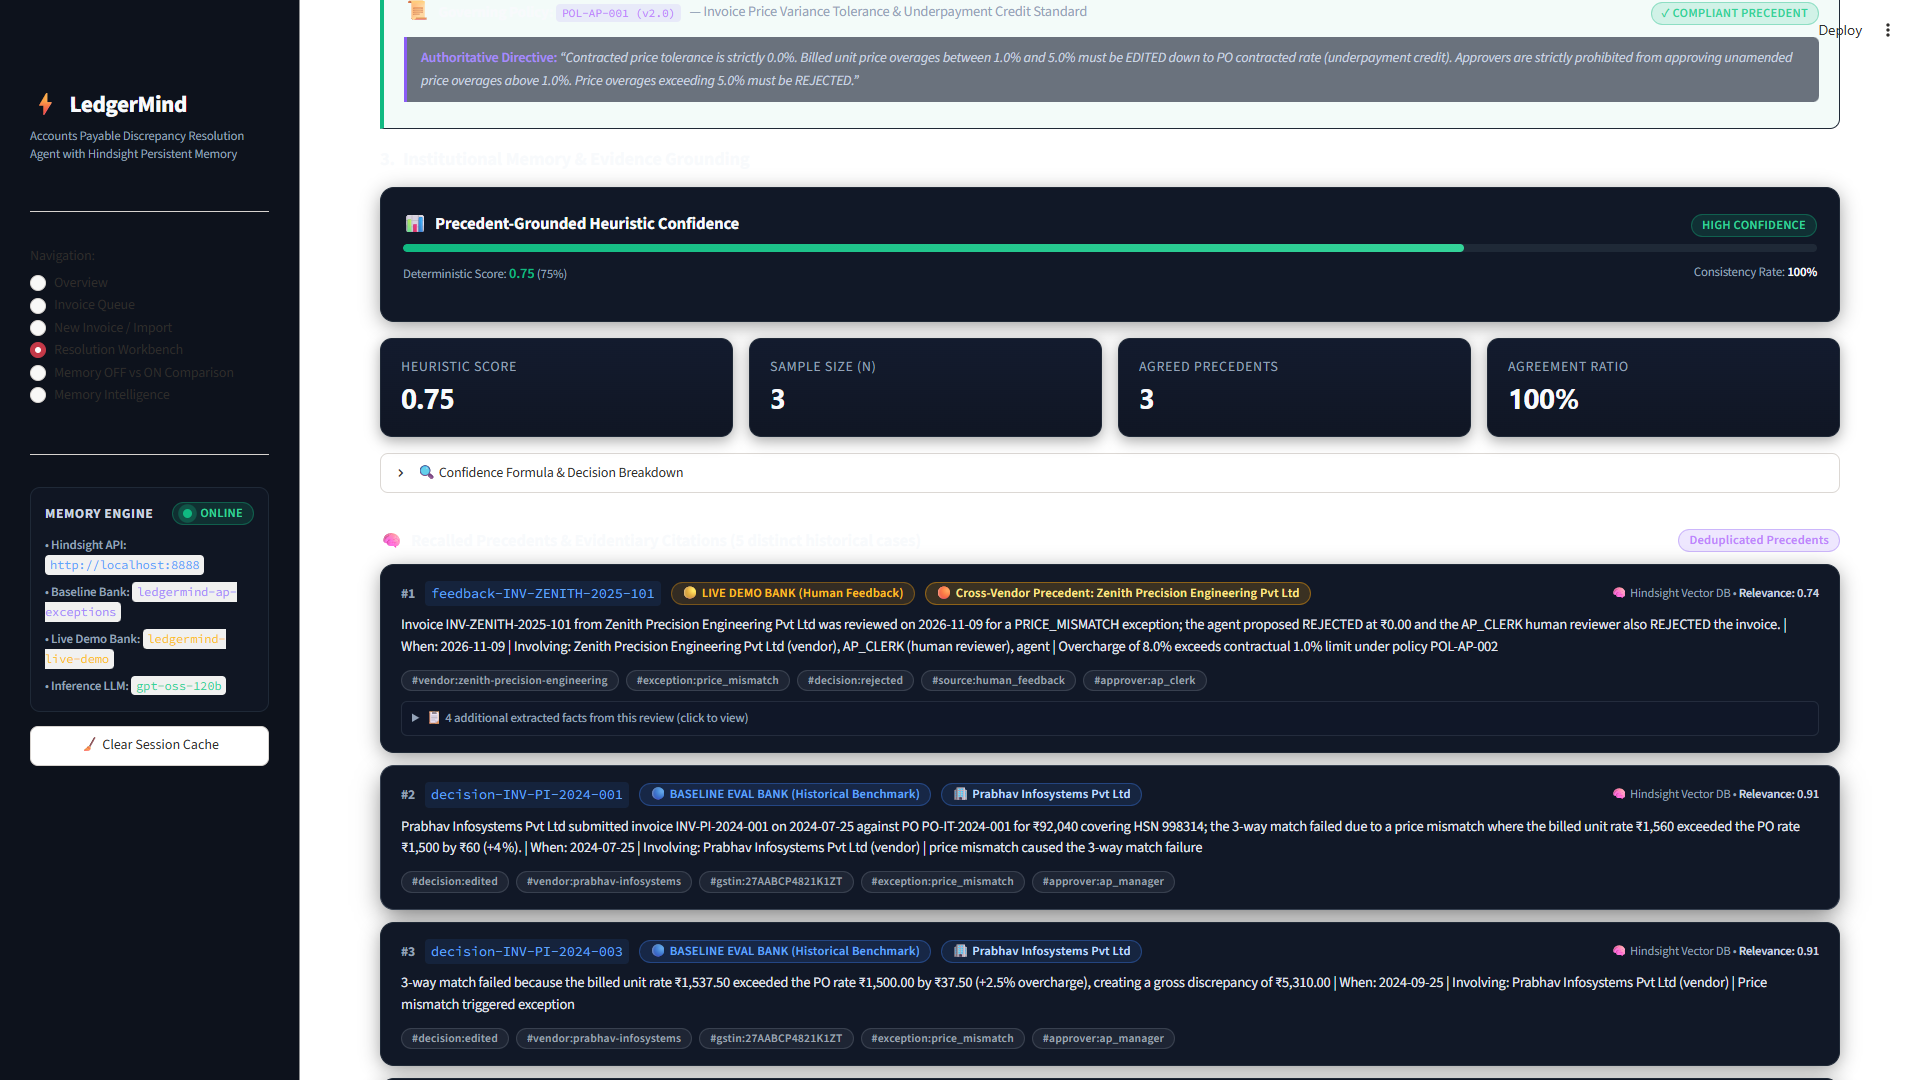
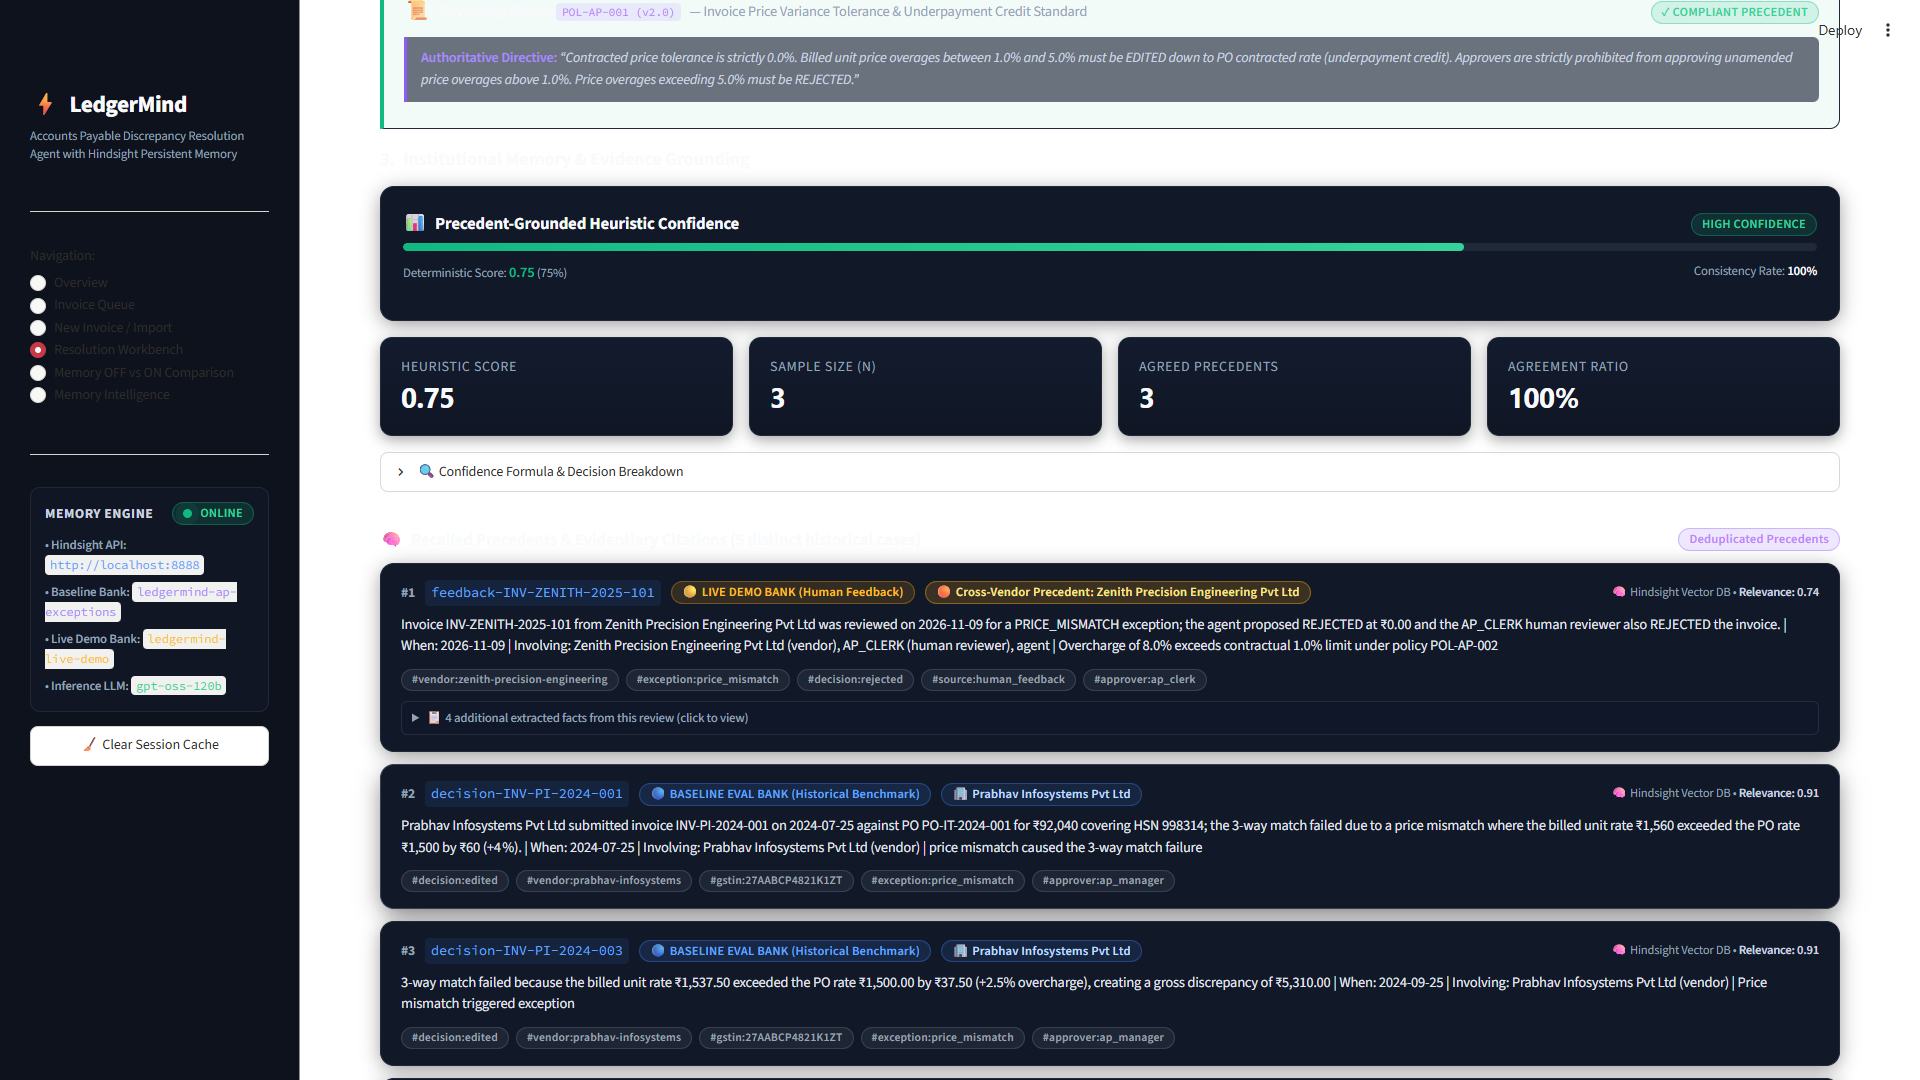
fix(memory): eliminate false timeout fallback and restore live Hindsight vector db provenance

diff --git a/memory/client.py b/memory/client.py
@@ -15,6 +15,7 @@ deterministic interface with normalized response models.
 from datetime import datetime, timezone
 import os
 from pathlib import Path
+import time
 from typing import Any, Dict, List, Optional
 
 from hindsight_client import Hindsight
@@ -62,30 +63,47 @@ class MemoryClient:
         self.offline_store = offline_store or OfflineStore()
         self.reflect_cache = reflect_cache or ReflectCache()
         self.configured_mode = self.mode
+
+        # Bounded recall timeout (default: 30.0s to accommodate 4-7s server vector search time)
+        timeout_env = os.getenv("HINDSIGHT_RECALL_TIMEOUT", "30.0")
+        try:
+            self.recall_timeout = float(timeout_env)
+        except ValueError:
+            self.recall_timeout = 30.0
+
         self.last_recall_source: str = "offline" if self.mode == MemoryMode.OFFLINE else "hindsight"
         self.last_fallback_reason: Optional[str] = None
+        self.last_recall_elapsed: Optional[float] = None
 
         # Initialize Hindsight SDK if not offline
         self._sdk_client: Optional[Hindsight] = None
         if self.mode in (MemoryMode.LOCAL, MemoryMode.CLOUD):
             try:
-                self._sdk_client = Hindsight(base_url=self.base_url, api_key=self.api_key)
+                self._sdk_client = Hindsight(
+                    base_url=self.base_url,
+                    api_key=self.api_key,
+                    timeout=self.recall_timeout,
+                )
             except Exception as e:
                 print(f"⚠  Warning: Failed to initialize Hindsight SDK ({e}); falling back to offline.")
                 self.mode = MemoryMode.OFFLINE
 
     def is_healthy(self) -> bool:
-        """Fast connectivity check to prevent long connect timeouts when service is offline."""
+        """Fast connectivity check for diagnostics and sidebar status polling."""
         if getattr(self, "configured_mode", self.mode) == MemoryMode.OFFLINE or not self.base_url or self.base_url.startswith("offline://"):
             return False
         try:
             import requests
-            resp = requests.get(f"{self.base_url.rstrip('/')}/health", timeout=3.0)
+            resp = requests.get(f"{self.base_url.rstrip('/')}/health", timeout=5.0)
             is_ok = resp.status_code == 200
             if is_ok:
                 if self._sdk_client is None and getattr(self, "configured_mode", self.mode) in (MemoryMode.LOCAL, MemoryMode.CLOUD):
                     try:
-                        self._sdk_client = Hindsight(base_url=self.base_url, api_key=self.api_key)
+                        self._sdk_client = Hindsight(
+                            base_url=self.base_url,
+                            api_key=self.api_key,
+                            timeout=self.recall_timeout,
+                        )
                     except Exception:
                         pass
                 self.mode = self.configured_mode
@@ -119,7 +137,7 @@ class MemoryClient:
             context=context,
         )
 
-        if self.mode == MemoryMode.OFFLINE or not self._sdk_client or not self.is_healthy():
+        if self.mode == MemoryMode.OFFLINE or not self._sdk_client:
             return document_id or "offline-retained"
 
         # Check and record budget
@@ -159,16 +177,19 @@ class MemoryClient:
         Recall relevant historical memories.
         In offline mode, falls back to lexical/tag filtering.
         """
-        if self.mode == MemoryMode.OFFLINE or not self._sdk_client or not self.is_healthy():
+        t_start = time.perf_counter()
+        if self.mode == MemoryMode.OFFLINE or not self._sdk_client:
             self.last_recall_source = "offline"
-            self.last_fallback_reason = "Offline mode or Hindsight service unhealthy"
+            self.last_fallback_reason = "Offline mode configured" if self.mode == MemoryMode.OFFLINE else "SDK client unavailable"
+            self.last_recall_elapsed = time.perf_counter() - t_start
             offline_results = self.offline_store.recall(bank_id=bank_id, query=query, tags=tags, limit=limit)
             for m in offline_results:
                 m.bank_id = bank_id
+                m.is_offline_fallback = True
             return offline_results
 
         try:
-            # Query Hindsight SDK
+            # Query Hindsight SDK with bounded timeout
             kwargs: Dict[str, Any] = {
                 "bank_id": bank_id,
                 "query": query,
@@ -179,23 +200,30 @@ class MemoryClient:
                 kwargs["min_scores"] = {"final": min_score}
 
             sdk_resp: RecallResponse = self._sdk_client.recall(**kwargs)
+            elapsed = time.perf_counter() - t_start
+            self.last_recall_elapsed = elapsed
+            self.last_recall_source = "hindsight"
+            self.last_fallback_reason = None
+
             results: List[RecalledMemory] = []
             if sdk_resp and hasattr(sdk_resp, "results") and sdk_resp.results:
                 for item in sdk_resp.results:
                     mem = RecalledMemory.from_recall_result(item)
                     mem.bank_id = bank_id
+                    mem.is_offline_fallback = False
                     results.append(mem)
-            self.last_recall_source = "hindsight"
-            self.last_fallback_reason = None
             return results[:limit]
 
         except Exception as e:
+            elapsed = time.perf_counter() - t_start
+            self.last_recall_elapsed = elapsed
             self.last_recall_source = "offline"
-            self.last_fallback_reason = f"{type(e).__name__}: {e}"
-            print(f"⚠  Hindsight recall error ({type(e).__name__}: {e}); falling back to offline store.")
+            self.last_fallback_reason = f"{type(e).__name__} after {elapsed:.3f}s: {e}"
+            print(f"⚠  Hindsight recall error after {elapsed:.3f}s ({type(e).__name__}: {e}); falling back to offline store.")
             offline_results = self.offline_store.recall(bank_id=bank_id, query=query, tags=tags, limit=limit)
             for m in offline_results:
                 m.bank_id = bank_id
+                m.is_offline_fallback = True
             return offline_results
 
     def reflect(
@@ -223,7 +251,7 @@ class MemoryClient:
         )
         actual_query = query or default_query
 
-        if self.mode == MemoryMode.OFFLINE or not self._sdk_client or not self.is_healthy():
+        if self.mode == MemoryMode.OFFLINE or not self._sdk_client:
             summary = (
                 f"[OFFLINE PROFILE] Vendor {slug}: Synthesized profile unavailable in offline mode. "
                 f"Referencing individual recalled records."

diff --git a/tests/test_memory_evidence_integrity.py b/tests/test_memory_evidence_integrity.py
@@ -359,3 +359,88 @@ def test_honest_fallback_reporting_not_relabeled():
     assert live_mem.is_offline_fallback is False
 
 
+def test_slow_but_successful_hindsight_recall(monkeypatch):
+    """
+    Regression test for Hindsight recall latency tolerance:
+    When Hindsight takes multiple seconds (e.g., 4.5s - 6.7s for complex vector search),
+    LedgerMind client must wait for the response and retain live provenance (is_offline_fallback=False).
+    """
+    import time
+    from unittest.mock import MagicMock
+    from hindsight_client_api.models.recall_response import RecallResponse
+    from hindsight_client_api.models.recall_result import RecallResult
+    from memory.client import MemoryClient, MemoryMode
+
+    client = MemoryClient(mode=MemoryMode.LOCAL, base_url="http://localhost:8888")
+    
+    mock_item = MagicMock()
+    mock_item.id = "mock-live-001"
+    mock_item.text = "Live slow recalled fact from Hindsight vector engine"
+    mock_item.type = "observation"
+    mock_item.document_id = "decision-INV-PI-2024-001"
+    mock_item.tags = ["vendor:prabhav-infosystems"]
+    mock_item.metadata = {"vendor_name": "Prabhav Infosystems Pvt Ltd"}
+    mock_item.scores = MagicMock(final=0.95, semantic=0.92, reranker=0.90)
+
+    mock_resp = MagicMock()
+    mock_resp.results = [mock_item]
+
+    def slow_recall(**kwargs):
+        time.sleep(0.1)  # Simulate latency
+        return mock_resp
+
+    mock_sdk = MagicMock()
+    mock_sdk.recall = MagicMock(side_effect=slow_recall)
+    client._sdk_client = mock_sdk
+
+    results = client.recall(
+        bank_id="ledgermind-ap-exceptions",
+        query="Prabhav price mismatch",
+        limit=5,
+    )
+
+    assert len(results) == 1
+    assert results[0].id == "mock-live-001"
+    assert results[0].is_offline_fallback is False
+    assert client.last_recall_source == "hindsight"
+    assert client.last_fallback_reason is None
+    assert client.last_recall_elapsed is not None
+    assert client.last_recall_elapsed >= 0.1
+
+
+def test_hindsight_timeout_honest_fallback_provenance(monkeypatch):
+    """
+    When Hindsight genuinely times out or raises an exception, the client must:
+    1. Catch the exception safely without crashing.
+    2. Record the exception type, elapsed time, and fallback reason.
+    3. Return offline fallback memories with is_offline_fallback=True.
+    4. Never relabel offline records as live Hindsight data.
+    """
+    from unittest.mock import MagicMock
+    from memory.client import MemoryClient, MemoryMode
+
+    client = MemoryClient(mode=MemoryMode.LOCAL, base_url="http://localhost:8888")
+
+    def timeout_recall(**kwargs):
+        raise TimeoutError("Read timed out after 30.0 seconds")
+
+    mock_sdk = MagicMock()
+    mock_sdk.recall = MagicMock(side_effect=timeout_recall)
+    client._sdk_client = mock_sdk
+
+    results = client.recall(
+        bank_id="ledgermind-ap-exceptions",
+        query="Prabhav price mismatch",
+        limit=5,
+    )
+
+    assert client.last_recall_source == "offline"
+    assert "TimeoutError" in client.last_fallback_reason
+    assert "Read timed out after 30.0 seconds" in client.last_fallback_reason
+    assert client.last_recall_elapsed is not None
+    # All returned memories MUST have is_offline_fallback=True
+    for mem in results:
+        assert mem.is_offline_fallback is True
+
+
+

diff --git a/memory/operations.py b/memory/operations.py
@@ -41,11 +41,14 @@ def recall_for_exception(
     Scoped by vendor and exception type.
     """
     vendor_slug = get_vendor_slug(invoice.vendor_name)
+    raw_slug = invoice.vendor_name.lower().replace(" ", "-").replace(".", "")
     exc_type = match_result.exception_type.value.lower()
 
-    # Search with primary query and tag scoping
+    # Search with primary query and tag scoping (support both canonical slug and raw seed slug)
     query = build_recall_query(invoice, match_result)
     tags = [f"vendor:{vendor_slug}", f"exception:{exc_type}"]
+    if raw_slug != vendor_slug:
+        tags.append(f"vendor:{raw_slug}")
 
     results = client.recall(
         bank_id=bank_id,
@@ -57,10 +60,13 @@ def recall_for_exception(
 
     # Fallback to broader vendor recall if tag-specific recall yielded no results
     if not results:
+        broad_tags = [f"vendor:{vendor_slug}"]
+        if raw_slug != vendor_slug:
+            broad_tags.append(f"vendor:{raw_slug}")
         results = client.recall(
             bank_id=bank_id,
             query=query,
-            tags=[f"vendor:{vendor_slug}"],
+            tags=broad_tags,
             limit=limit,
             min_score=min_score,
         )
@@ -74,6 +80,7 @@ def recall_for_confidence(
     vendor_slug: str,
     exception_type: ExceptionType,
     limit: int = 15,
+    vendor_name: Optional[str] = None,
 ) -> List[RecalledMemory]:
     """
     Retrieve a broader sample of past comparable decisions for the confidence formula.
@@ -82,6 +89,10 @@ def recall_for_confidence(
     slug = vendor_slug.strip().lower()
     exc_str = exception_type.value.lower()
     tags = [f"vendor:{slug}", f"exception:{exc_str}"]
+    if vendor_name:
+        raw_slug = vendor_name.lower().replace(" ", "-").replace(".", "")
+        if raw_slug != slug:
+            tags.append(f"vendor:{raw_slug}")
 
     return client.recall(
         bank_id=bank_id,

diff --git a/qa/test_evidence_integrity_browser.py b/qa/test_evidence_integrity_browser.py
@@ -152,10 +152,14 @@ def run_browser_verification():
             # Inspect DOM content
             page_text = page.content()
 
-            # 1. Verify accurate metadata chips and badges
+            # 1. Verify accurate metadata chips, storage badges, and live Hindsight provenance
+            assert "Hindsight Vector DB" in page_text, "Expected '🧠 Hindsight Vector DB' storage badge in evidence cards!"
+            assert "Local Offline JSONL Fallback Store" not in page_text, "Warning 'Local Offline JSONL Fallback Store' should NOT appear when live Hindsight is healthy!"
             assert "zenith-precision-engineering" in page_text, "Expected #vendor:zenith-precision-engineering in evidence cards"
             assert "Cross-Vendor Precedent: Zenith Precision Engineering" in page_text, "Expected Cross-Vendor Precedent badge for Zenith"
             assert "Prabhav Infosystems Pvt Ltd" in page_text, "Expected Prabhav Infosystems in evidence cards"
+            print("  ✓ Verified: Provenance shows '🧠 Hindsight Vector DB' (genuine live vector recall)!")
+            print("  ✓ Verified: Data Lineage Notice (Offline Fallback warning) is absent!")
             print("  ✓ Verified: Cross-Vendor Precedent badge for Zenith is present!")
             print("  ✓ Verified: #vendor:zenith-precision-engineering tag is present!")
             print("  ✓ Verified: Direct vendor precedents for Prabhav Infosystems are present!")

diff --git a/agent/resolver.py b/agent/resolver.py
@@ -313,6 +313,7 @@ class ResolutionAgent:
                     vendor_slug=vendor_slug,
                     exception_type=match_result.exception_type,
                     limit=15,
+                    vendor_name=invoice.vendor_name,
                 )
                 baseline_conf = recall_for_confidence(
                     client=self.memory,
@@ -320,6 +321,7 @@ class ResolutionAgent:
                     vendor_slug=vendor_slug,
                     exception_type=match_result.exception_type,
                     limit=15,
+                    vendor_name=invoice.vendor_name,
                 )
                 confidence_sample, self_conf_reviews = normalize_and_deduplicate_memories(
                     demo_conf + baseline_conf,
@@ -377,6 +379,7 @@ class ResolutionAgent:
                     vendor_slug=vendor_slug,
                     exception_type=match_result.exception_type,
                     limit=20,
+                    vendor_name=invoice.vendor_name,
                 )
                 confidence_sample, _ = normalize_and_deduplicate_memories(
                     raw_conf,

diff --git a/tests/test_streamlit_smoke.py b/tests/test_streamlit_smoke.py
@@ -42,4 +42,12 @@ def test_comparison_page_render():
 def test_memory_intelligence_page_render():
     """Verify Memory Intelligence page renders cleanly."""
     init_session_state()
-    render_memory_intelligence_page()
+    from memory.schema import MemoryMode
+    from ui.state import get_memory_client
+    client = get_memory_client()
+    orig_mode = client.mode
+    client.mode = MemoryMode.OFFLINE
+    try:
+        render_memory_intelligence_page()
+    finally:
+        client.mode = orig_mode
